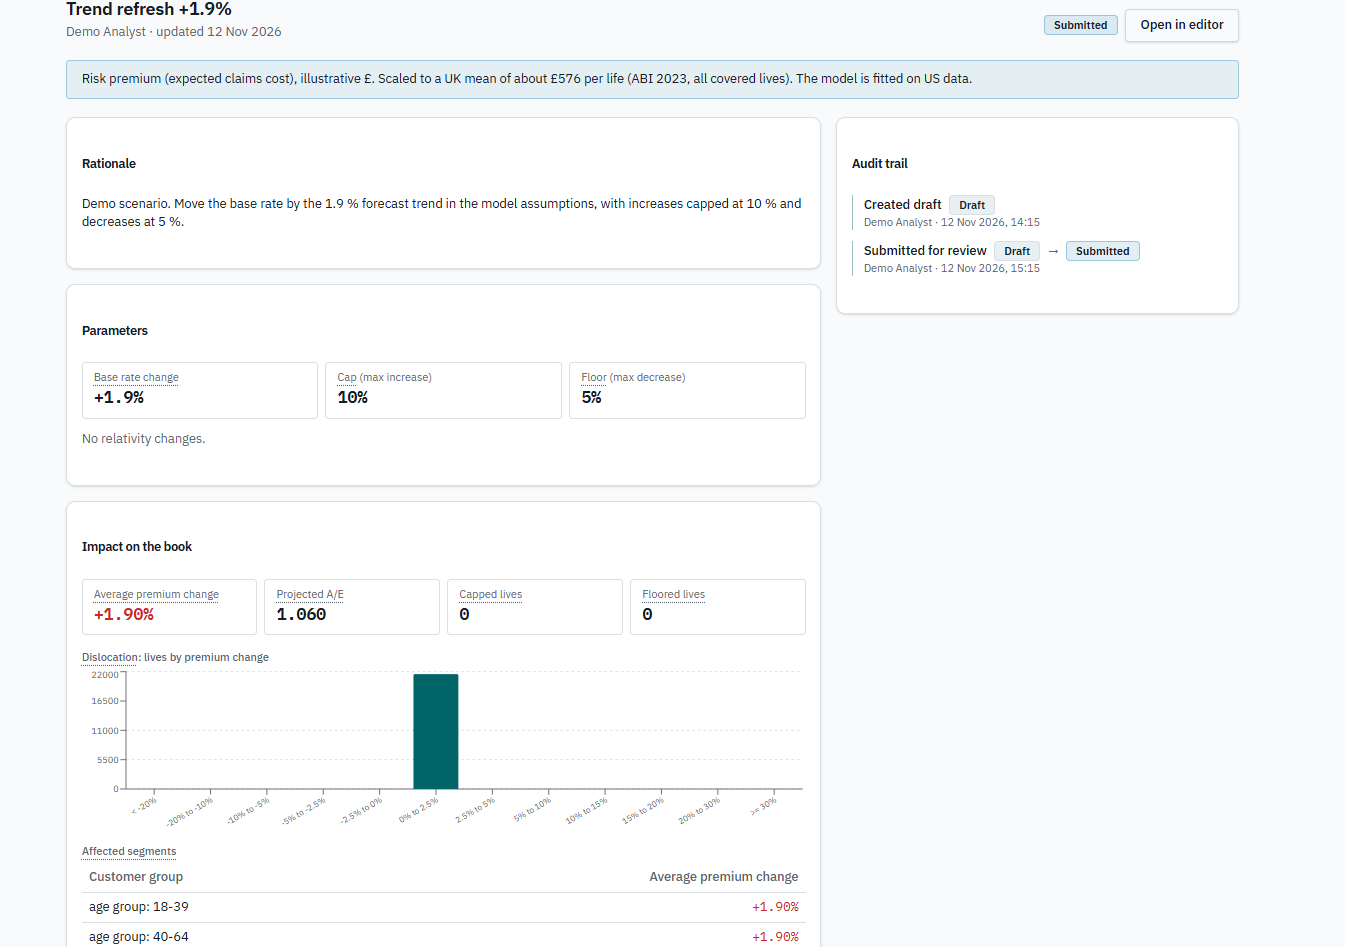
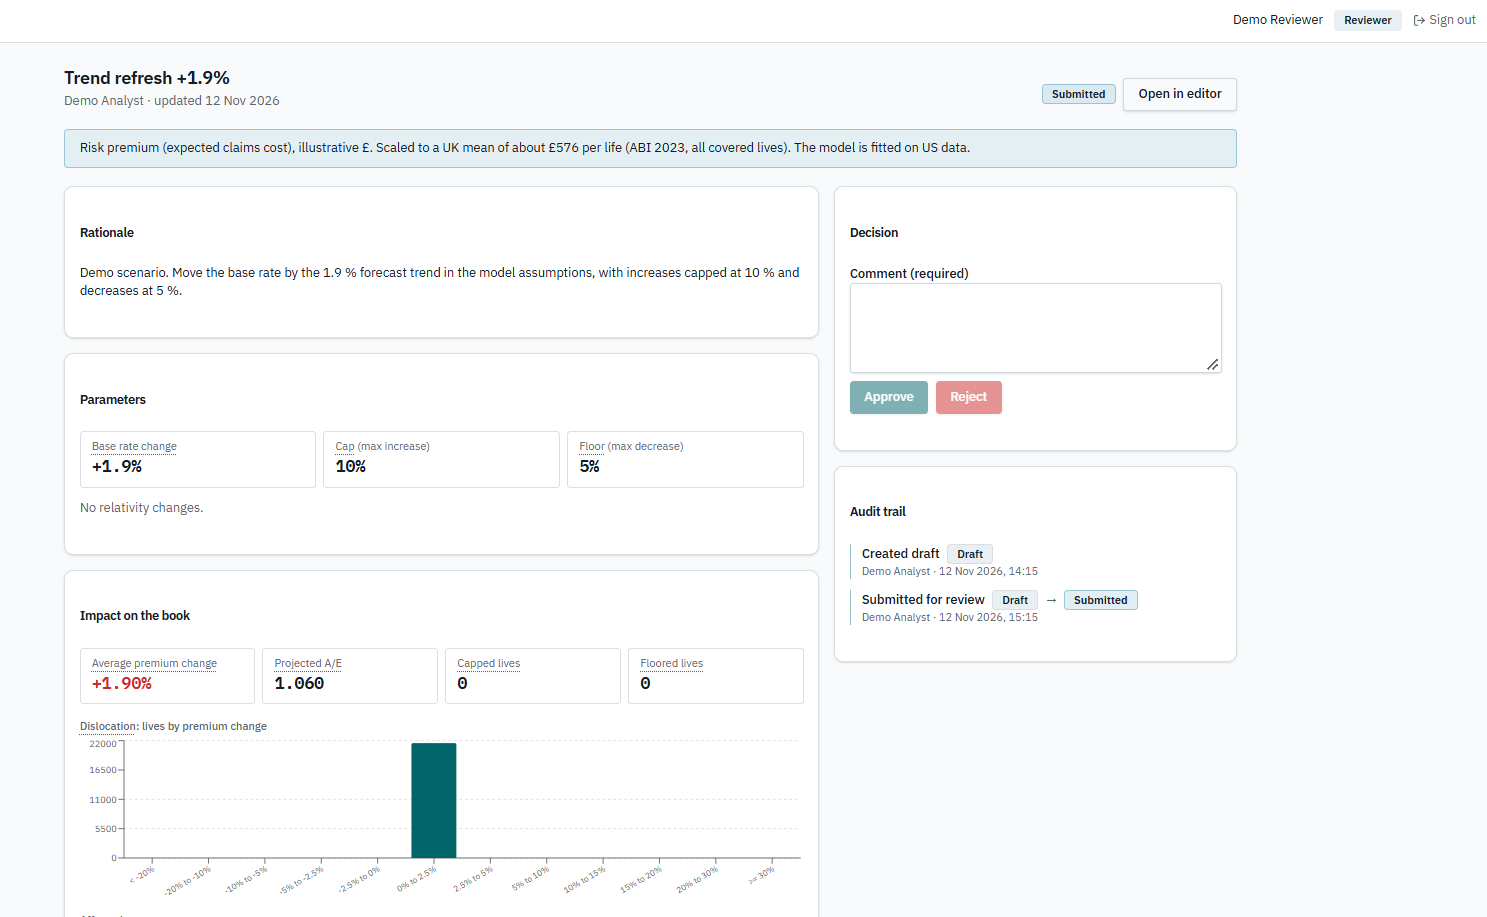
README: A/E chart and Reviewer view screenshots, log update (#20)

diff --git a/README.md b/README.md
@@ -81,8 +81,12 @@ Live demo: https://35-254-148-15.sslip.io. For a page-by-page checklist of what 
 | Home. Each underlined term opens a plain-English explanation. | Quote. The premium builds up from the base rate, one factor at a time. |
 | ![Rating factors with confidence bands and exposure](docs/screenshots/03-factors.png) | ![Monitoring with recalibration flags grouped by type](docs/screenshots/04-monitoring.png) |
 | Rating factors, with confidence bands and exposure. | Monitoring. Flags are grouped into level shift and change in shape. |
-| ![Scenario editor with the live impact panel](docs/screenshots/05-scenario-impact.png) | ![A submitted scenario with its audit trail](docs/screenshots/06-review-audit.png) |
-| Scenario editor. The impact on the book updates as you change the inputs. | A submitted scenario, read-only, with its audit trail. |
+| ![Scenario editor with the live impact panel](docs/screenshots/05-scenario-impact.png) | ![A submitted scenario in the Reviewer view with the decision form and audit trail](docs/screenshots/06-review-audit.png) |
+| Scenario editor. The impact on the book updates as you change the inputs. | A submitted scenario as the Reviewer, with approve and reject and the audit trail. |
+
+The Monitoring A/E chart uses the same colours as the table, so a bar is red when claims ran higher than expected.
+
+![Monitoring A/E chart and table](docs/screenshots/04b-monitoring-chart.png)
 
 ## Observability
 

diff --git a/_docs/log.md b/_docs/log.md
@@ -46,3 +46,11 @@
   QA-free checks of the live site on a phone. Task 18 (on-call agent) only if time allows.
 - **Open:** the "Rebase" and "ABI" wording in the glossary should be checked against the pricing service. The OTLP log handler
   override uses a private SDK method, so re-check it when the SDK version changes. The Grafana stack name shows in one screenshot.
+
+### 2026-11-16 update
+
+- **Done:** task 17 (alert rule as code, fired once on purpose, evidence on the issue). Age bands sorted youngest first and the Monitoring default
+  filters fixed. README screenshots, observability and course requirements sections. Reviewer guide.
+- **Next:** if the deadline is extended, add an automatic deploy step for the second CI/CD point (needs an SSH key as a GitHub secret). Close
+  issues 14 to 17, 19 and 20 after the owner's check. The pricing service gets its own deployment for ML Zoomcamp, outside this repo.
+- **Open:** CI/CD is claimed at 1 of 3 points. The on-call agent (task 18) is not built.
